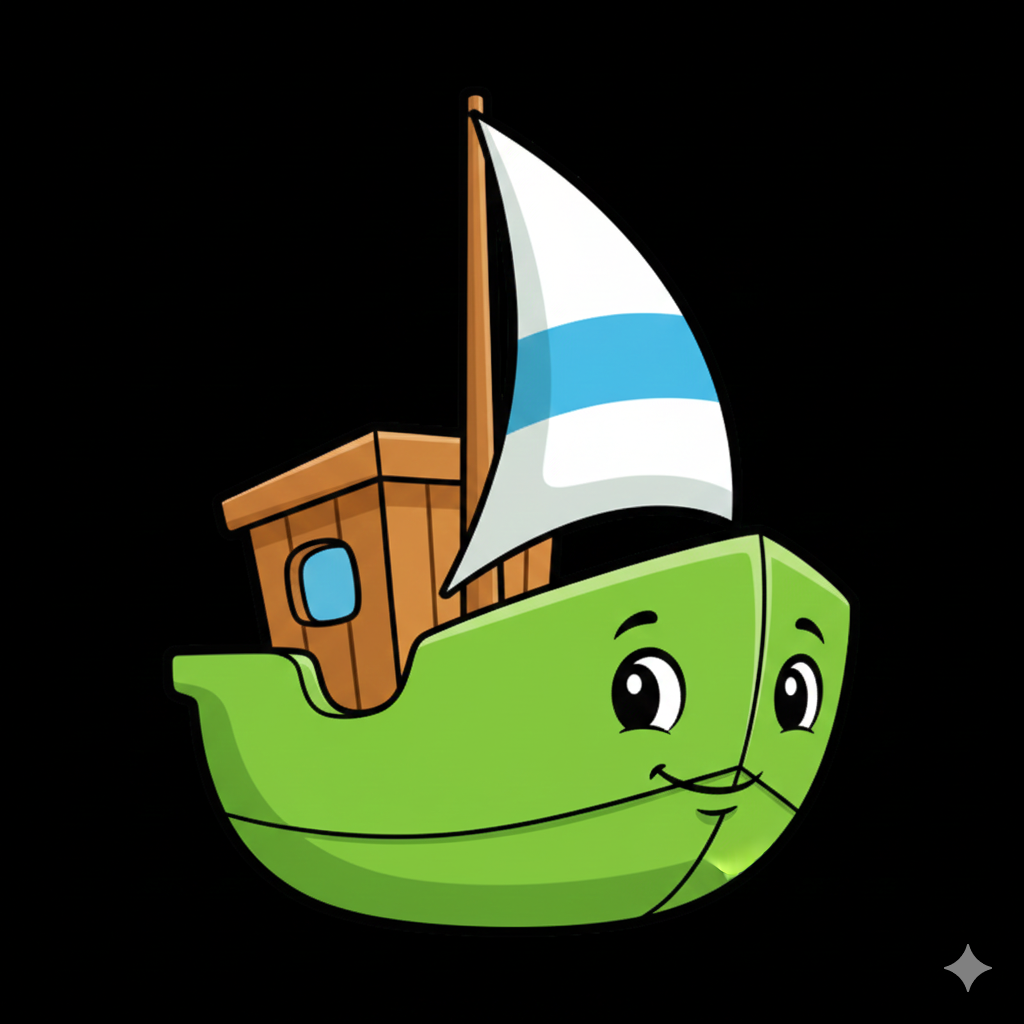
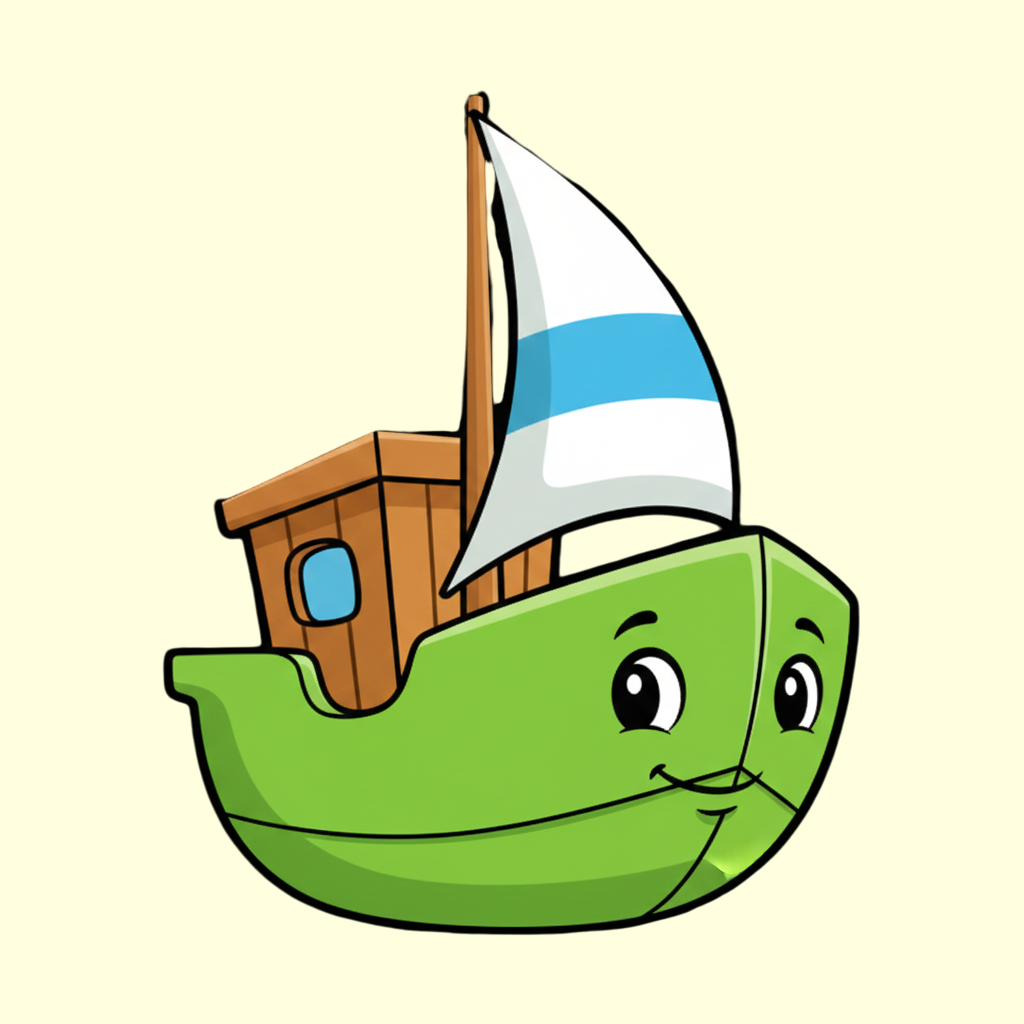
feat: Update dashboard background to use an image or gradient and modify boat asset.

diff --git a/dashboard.py b/dashboard.py
@@ -6,9 +6,16 @@ class Dashboard:
         self.screen = screen
         self.width, self.height = screen.get_size()
         
-        # Load background - Solid pastel color as requested
-        self.background = pygame.Surface((self.width, self.height))
-        self.background.fill((50, 50, 100)) # Dark blue/purple for dashboard
+        # Load background - same as start screen
+        try:
+            self.background = pygame.image.load(resource_path('assets/images/start_background.png'))
+            self.background = pygame.transform.scale(self.background, (self.width, self.height))
+        except:
+            # Fallback: create a colorful gradient background
+            self.background = pygame.Surface((self.width, self.height))
+            for i in range(self.height):
+                color_value = int(150 + (i / self.height) * 105)
+                pygame.draw.line(self.background, (100, color_value, 255), (0, i), (self.width, i))
             
         # Load Checkmark
         try:
